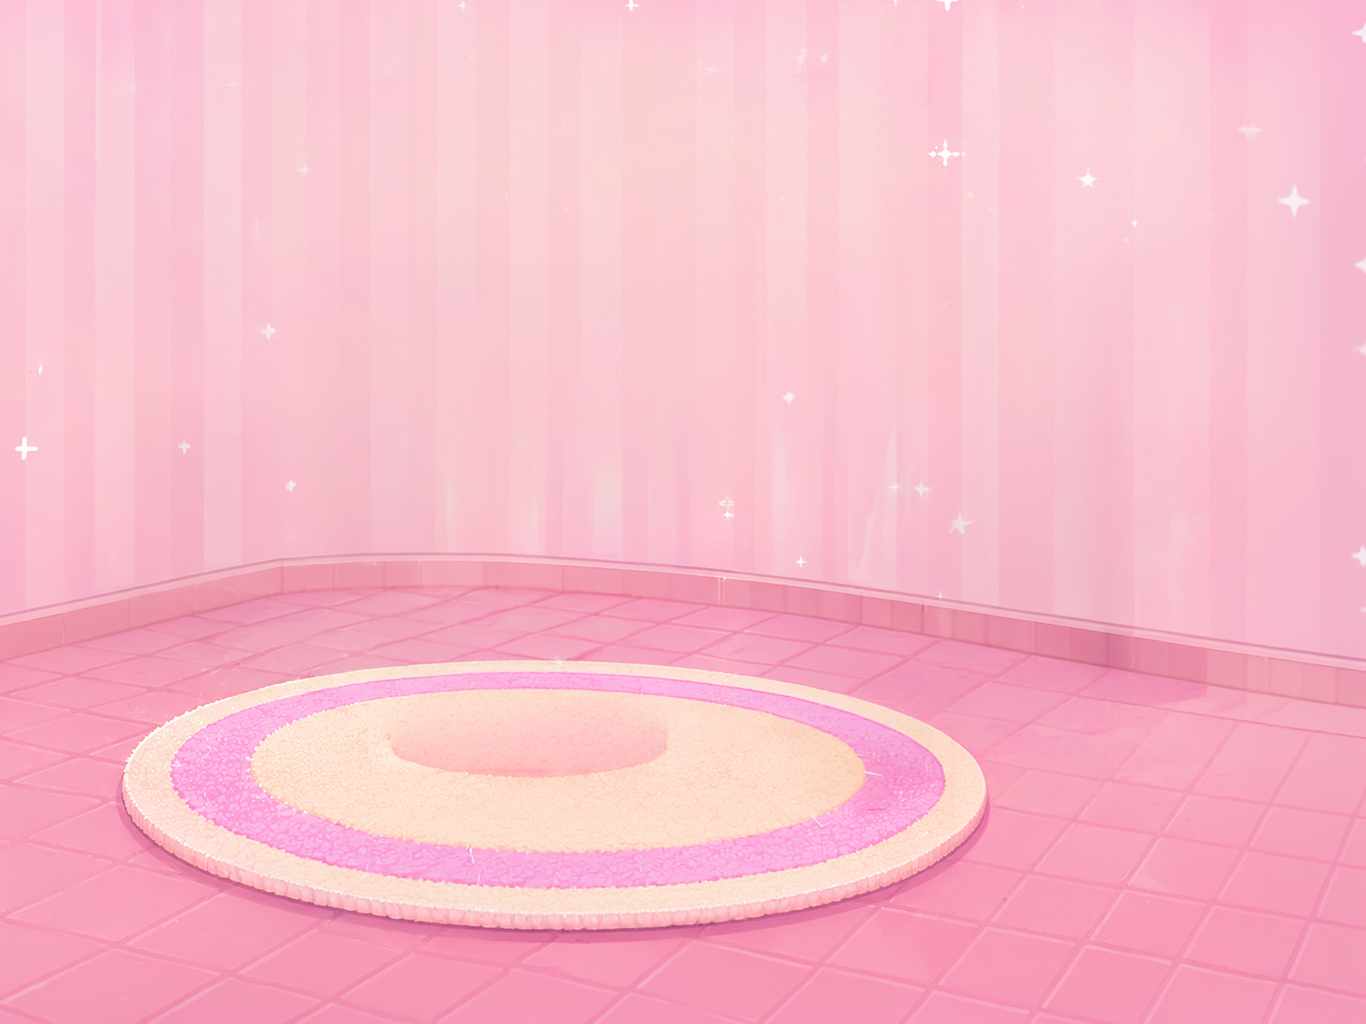
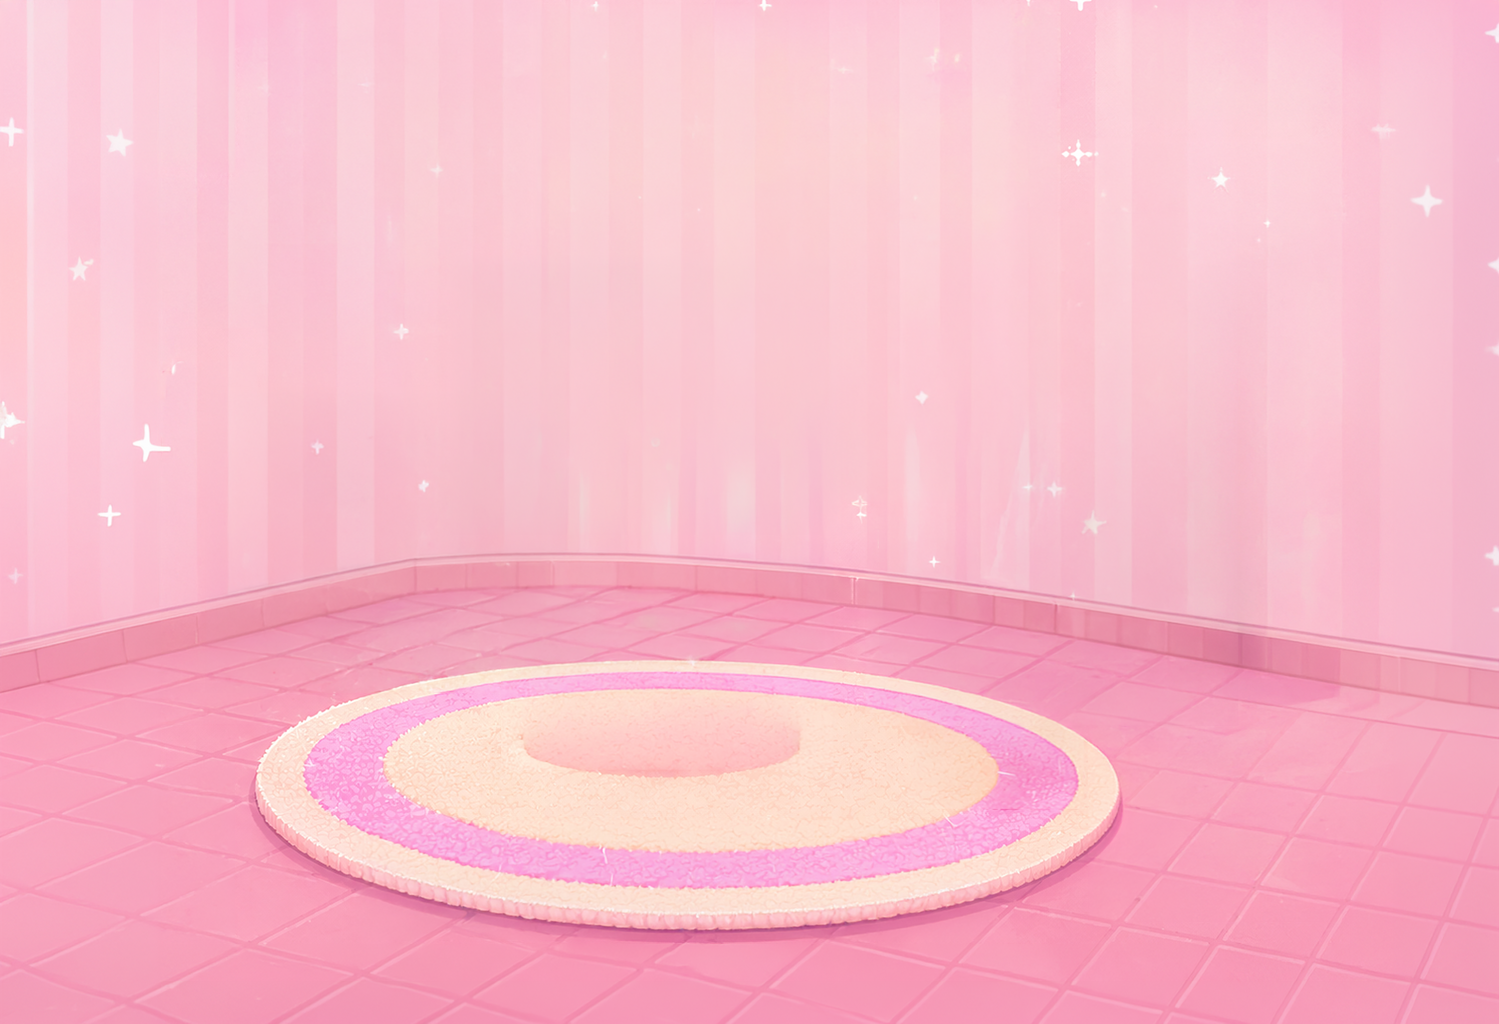
Update
Update UI / Annimation

diff --git a/src/main.jsx b/src/main.jsx
@@ -43,18 +43,20 @@ const steps = [
     id: 1,
     tone: 'dark',
     character: 'sad',
+    centeredOffset: 155,
     bubbles: [
-      { side: 'left', text: ['안녕...', '나는 이비야.'], left: 96, top: 257 },
-      { side: 'right', text: ['요즘 너무', '배가 고파 😢'], left: 704, top: 369 },
+      { side: 'left', text: ['안녕...', '나는 이비야.'], left: 251, top: 257 },
+      { side: 'right', text: ['요즘 너무', '배가 고파 😢'], left: 859, top: 369 },
     ],
   },
   {
     id: 2,
     tone: 'dark',
     character: 'sad',
+    centeredOffset: 155,
     bubbles: [
-      { side: 'left', text: ['네 목소리를 들으면', '힘이 날 것 같아!'], left: 96, top: 257, paddingLeft: 28 },
-      { side: 'right', text: ['목소리를', '들려줄래?'], left: 704, top: 369 },
+      { side: 'left', text: ['네 목소리를 들으면', '힘이 날 것 같아!'], left: 251, top: 257, paddingLeft: 28 },
+      { side: 'right', text: ['목소리를', '들려줄래?'], left: 859, top: 369 },
     ],
     cta: { label: '응, 들려줄게!', left: 508, top: 822, width: 350, extraClass: 'cta-next' },
   },
@@ -62,9 +64,10 @@ const steps = [
     id: 3,
     tone: 'bright',
     character: 'excited',
+    centeredOffset: 155,
     bubbles: [
-      { side: 'left', text: ['정말?!', '고마워!'], left: 98, top: 248 },
-      { side: 'right', text: ['말 먹이', '시간이야!'], left: 720, top: 368 },
+      { side: 'left', text: ['정말?!', '고마워!'], left: 253, top: 248 },
+      { side: 'right', text: ['말 먹이', '시간이야!'], left: 875, top: 368 },
     ],
     confetti: true,
   },
@@ -72,6 +75,8 @@ const steps = [
     id: 4,
     tone: 'bright',
     character: 'happy',
+    slideLeft: true,
+    bgLeft: -133,
     bubbles: [{ side: 'left', text: ['시작하기 버튼을', '눌러서 시작하자!'], left: 96, top: 257 }],
     showPanel: true,
     panelMode: 'highlightStart',
@@ -90,6 +95,7 @@ const steps = [
     missionCard: true,
     speakButton: true,
     showEmptyHearts: true,
+    bgLeft: -133,
   },
   {
     id: 6,
@@ -99,6 +105,7 @@ const steps = [
     showPanel: true,
     listening: true,
     showEmptyHearts: true,
+    bgLeft: -133,
   },
   {
     id: 7,
@@ -111,6 +118,7 @@ const steps = [
     showPanel: true,
     hearts: 1,
     cta: { label: '다음', left: 380, top: 800, width: 320, extraClass: 'cta-next' },
+    bgLeft: -133,
   },
   {
     id: 8,
@@ -121,6 +129,7 @@ const steps = [
     hearts: 3,
     confetti: true,
     replayButton: true,
+    bgLeft: -133,
   },
   {
     id: 9,
@@ -131,6 +140,7 @@ const steps = [
     hearts: 3,
     showProgress: true,
     replayButton: true,
+    bgLeft: -133,
   },
   {
     id: 10,
@@ -146,6 +156,7 @@ const steps = [
     collection: true,
     collectionHighlight: true,
     replayButton: true,
+    bgLeft: -133,
   },
   {
     id: 11,
@@ -162,6 +173,7 @@ const steps = [
     collection: true,
     replayButton: true,
     staticStar: true,
+    bgLeft: -133,
   },
 ];
 
@@ -222,10 +234,24 @@ function HeaderButtons() {
   );
 }
 
-function RoomDecor({ tone }) {
+function RoomDecor({ tone, bgLeft = 0 }) {
   return (
     <>
-      <Asset src={bg} alt="분홍색 게임 방 배경" className="stage-bg" style={{ left: 0, top: 0, width: CANVAS.width, height: CANVAS.height }} />
+      <div
+        role="img"
+        aria-label="분홍색 게임 방 배경"
+        className="absolute pointer-events-none stage-bg"
+        style={{
+          left: `${bgLeft}px`,
+          top: 0,
+          width: 1499,
+          height: 1024,
+          backgroundImage: `url(${bg})`,
+          backgroundSize: '1499px 1024px',
+          backgroundPosition: '0 0',
+          backgroundRepeat: 'no-repeat',
+        }}
+      />
       {tone === 'dark' && <div className="absolute inset-0 z-[1] bg-[#15091f]/65 backdrop-brightness-75" />}
       <div className="sparkle-layer" aria-hidden="true">
         {sparkles.map((sparkle, index) => (
@@ -273,16 +299,21 @@ function OnboardingBubble({ bubble, index }) {
   );
 }
 
-function CharacterArea({ state }) {
-  const layout = characterLayout[state];
+function CharacterArea({ state, centeredOffset = 0, slideLeft = false }) {
+  const base = characterLayout[state];
 
   return (
-    <Asset
-      src={characterAssets[state]}
-      alt={`이비 ${state} 상태`}
-      className={`z-20 character-glow ${state === 'excited' ? 'character-hop' : 'character-float'}`}
-      style={layout}
-    />
+    <div
+      className={`absolute z-20 ${slideLeft ? 'character-slide-left' : ''}`}
+      style={{ left: base.left + centeredOffset, top: base.top, width: base.width, height: base.height }}
+    >
+      <Asset
+        src={characterAssets[state]}
+        alt={`이비 ${state} 상태`}
+        className={`character-glow ${state === 'excited' ? 'character-hop' : 'character-float'}`}
+        style={{ left: 0, top: 0, width: base.width, height: base.height }}
+      />
+    </div>
   );
 }
 
@@ -455,9 +486,9 @@ function StepIndicator({ current }) {
 function OnboardingStep({ step, index, onNext }) {
   return (
     <>
-      <RoomDecor tone={step.tone} />
+      <RoomDecor tone={step.tone} bgLeft={step.bgLeft ?? 0} />
       {step.showHeader && <HeaderButtons />}
-      <CharacterArea state={step.character} />
+      <CharacterArea state={step.character} centeredOffset={step.centeredOffset} slideLeft={step.slideLeft} />
       {step.bubbles.map((bubble, bubbleIndex) => (
         <OnboardingBubble key={`${step.id}-${bubbleIndex}`} bubble={bubble} index={bubbleIndex} />
       ))}

diff --git a/src/styles.css b/src/styles.css
@@ -65,6 +65,7 @@ button {
 
 .stage-bg {
   z-index: 0;
+  transition: left 700ms ease-out;
 }
 
 .asset-button {
@@ -116,6 +117,11 @@ button {
 .character-float {
   animation: character-float 3.8s ease-in-out infinite;
 }
+
+.character-slide-left {
+  animation: character-slide-left 700ms ease-out both;
+}
+
 
 .character-hop {
   animation: character-hop 2.2s ease-in-out infinite;
@@ -403,6 +409,12 @@ button {
   width: 100%;
   height: 18%;
 }
+
+@keyframes character-slide-left {
+  0% { transform: translateX(133px); }
+  100% { transform: translateX(0); }
+}
+
 
 @keyframes character-float {
   0%,
